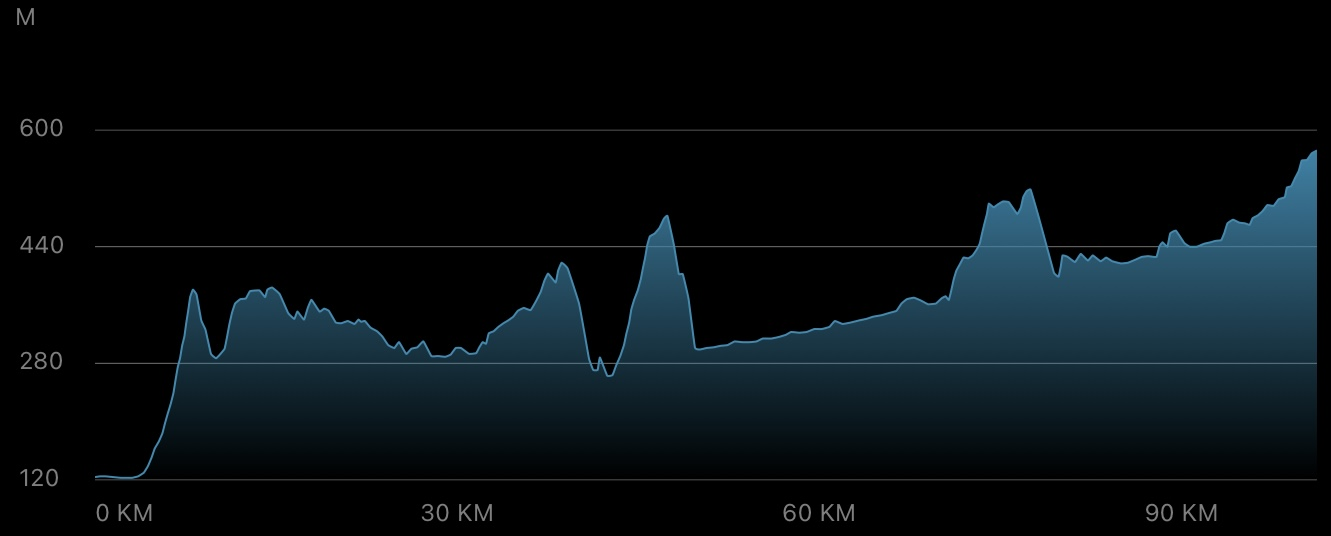
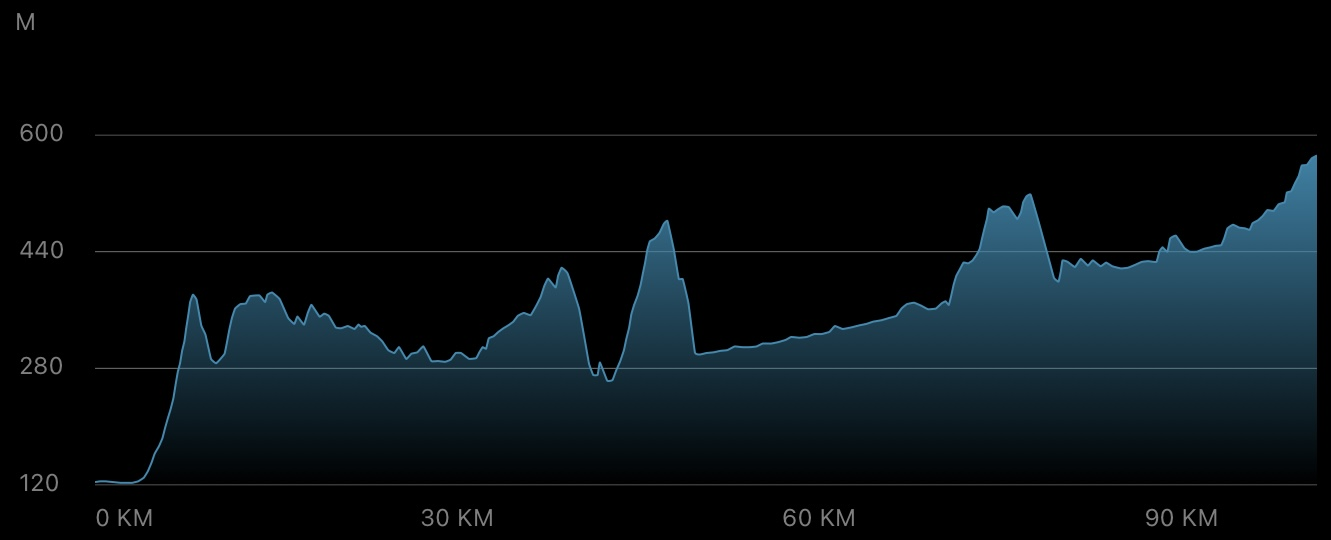
Updated elevation and slope profiles, added RT25 leg 13

diff --git a/RT25/RT25-13.html b/RT25/RT25-13.html
@@ -6,10 +6,10 @@
     <meta charset="utf-8">
     <meta http-equiv="X-UA-Compatible" content="IE=edge,chrome=1">
     <meta name="viewport" content="width=device-width, initial-scale=1">
-    <meta name="description" content="2025 Cycling Tour - Leg 12 Post">
+    <meta name="description" content="2025 Cycling Tour - Leg 13 Post">
     <meta name="author" content="Tim Ortkamp">
 
-    <title>Tim Ortkamp — 2025 Cycling Tour — Leg 12</title>
+    <title>Tim Ortkamp — 2025 Cycling Tour — Leg 13</title>
     
     <!-- Favicons -->
     <link rel="icon" type="image/x-icon" href="../favicon/favicon.ico">
@@ -84,14 +84,14 @@
 
     <!-- Page Header -->
     <!-- Set your background image for this header on the line below. -->
-    <header class="intro-header" style="background-image: url('../img/RT25/RT25-12-2.jpg')">
+    <header class="intro-header" style="background-image: url('../img/RT25/RT25-13-5.jpg')">
         <div class="container">
             <div class="row">
                 <div class="col-lg-8 col-lg-offset-2 col-md-10 col-md-offset-1">
                     <div class="post-heading">
-                        <h1>Riding the (small) roller coaster</h1>
-                        <h2 class="subheading">2025 Cycling Tour — Leg 12: From Brussels to Liège</h2>
-                        <span class="meta">Posted by <a href="../index.html">Tim Ortkamp</a> on August 24, 2025</span>
+                        <h1>In the footsteps of the great Eddy Merckx</h1>
+                        <h2 class="subheading">2025 Cycling Tour — Leg 13: From Liège to St. Vith</h2>
+                        <span class="meta">Posted by <a href="../index.html">Tim Ortkamp</a> on August 25, 2025</span>
                     </div>
                 </div>
             </div>
@@ -110,31 +110,31 @@
                         <table style="border-collapse: collapse;">
                             <tr>
                                 <td style="padding: 10px; border-right: solid 1px #000"><b>Distance<b></td>
-                                <td style="padding: 10px;">99.6 km</td>
+                                <td style="padding: 10px;">99.15 km</td>
                             </tr>
                             <tr>
                                 <td style="padding: 10px; border-right: solid 1px #000"><b>Time<b></td>
-                                <td style="padding: 10px;">4:59:08 h</td>
+                                <td style="padding: 10px;">6:40:40 h</td>
                             </tr>
                             <tr>
                                 <td style="padding: 10px; border-right: solid 1px #000"><b>Avg. Speed<b></td>
-                                <td style="padding: 10px;">20.0 km/h</td>
+                                <td style="padding: 10px;">14.8 km/h</td>
                             </tr>
                             <tr>
                                 <td style="padding: 10px; border-right: solid 1px #000"><b>Max. Speed<b></td>
-                                <td style="padding: 10px;">36.9 km/h</td>
+                                <td style="padding: 10px;">40.8 km/h</td>
                             </tr>
                             <tr>
                                 <td style="padding: 10px; border-right: solid 1px #000"><b>Avg. Heart Rate<b></td>
-                                <td style="padding: 10px;">132 bpm</td>
+                                <td style="padding: 10px;">134 bpm</td>
                             </tr>
                             <tr>
                                 <td style="padding: 10px; border-right: solid 1px #000"><b>Uphill<b></td>
-                                <td style="padding: 10px;">650 m</td>
+                                <td style="padding: 10px;">1695 m</td>
                             </tr>
                             <tr>
                                 <td style="padding: 10px; border-right: solid 1px #000"><b>Downhill<b></td>
-                                <td style="padding: 10px;">561 m</td>
+                                <td style="padding: 10px;">1242 m</td>
                             </tr>
                             <tr>
                                 <td style="padding: 10px; border-right: solid 1px #000"><b>Avg. Temperature**<b></td>
@@ -145,11 +145,11 @@
                     
                     <div style="content: ''; clear=both; display: table;">
                         <div style="float: left; padding: 5px;">
-                            <img src="../img/RT25/RT25-12-Elevation.jpg" alt="Elevation profile" style="width:100%">
+                            <img src="../img/RT25/RT25-13-Elevation.jpg" alt="Elevation profile" style="width:100%">
                             <span class="caption text-muted">Elevation profile [m]</span>
 			  </div>
 			  <div style="float: left; padding: 5px;">
-			      <img src="../img/RT25/RT25-12-Slope.jpg" alt="Slope profile" style="width:100%">
+			      <img src="../img/RT25/RT25-13-Slope.jpg" alt="Slope profile" style="width:100%">
 			      <span class="caption text-muted">Slope profile [%]</span>
 			  </div>
 		     </div> 
@@ -160,42 +160,41 @@
                     <h2 class="section-heading" style="margin-top: 40px;">Daybook</h2>
 
                     <p class='expandable'>
-                    After the demoralizing ride from Ghent to Brussels, today's leg of the journey should take me about 100 km further to Liège. This route, with an elevation gain of more than 600 meters from many smaller ascents and descents, was planned to be a preparatory ride on the upcoming two-leg way back through the Eifel. Even more importantly: after yesterday, the general mood should turn positive again!<br><br>Feeling a little more rested — though still not back to 100% — I swung myself onto the bike at around 11 am after visiting the center of Brussels (see my last post). Today, the weather conditions were outstanding, with blue skies and sunshine at around 20°C. The first part of the route took me through Brussels, past construction sites and awkward traffic junctions, and across a number of suburbs (Sterrebeek, Moorsel, Leefdal, Bertem, etc.) all the way to Leuven. You could say it was a variety-packed ride, given the changing terrain conditions, but I would have preferred the smooth asphalt that morning ;-) Nevertheless, I reached Leuven with an average speed of 19 km/h and my legs feeling good, so I'm not about to complain :-) On the outskirts of Leuven, near the Abdij van Park (see first impression), I met another cyclist who told me that a professional bike race would be passing through Leuven that afternoon. Well, unlike the Benelux Tour, I would probably miss the finish line this time ...<br>After passing Boutersem and Tienen, I finally approached the approximately 40 km long series of ascents and descents along the N3. On the one hand, this two-hour section should have been easy to ride, as there were no turns, a distinct bike path was marked, and there weren't many other cyclists on the road. On the other hand, the road was mostly unprepared and bumpy, and the continuous alternation between 200 meters of climbing followed by 100 meters of flat or descending terrain was physically and mentally challenging, which is why I compare this section with a (small) roller coaster. Still, I probably underestimated the long straight ride, because along the route there were relatively few places to stop, such as supermarkets or shady spots along the edge of the bike path. Instead, the surroundings seemed rather “parched,” with restaurants/pubs by the roadside being mostly closed, and as soon as a store appeared to be open (or advertised 24/7 opening hours), it usually didn't look very appealing. Either way, the hunt for a decent supermarket got slightly out of hand, and I rode ... and rode ... and rode ... and rode all the way to Liège without taking a single break! Okay, the last few climbs hurt a little at the end, but every bike tour needs those torturous moments :-) For my personal record book: the longest distance I have ever cycled without a break (i.e., getting off the bike to eat snacks and drink fluids) is now 99.6 km! Many thanks, glucose, without you I might not have reached that success :-)<br><br>After almost five hours, I arrived at my accommodation in good condition. There shouldn't be any bedbugs here, so I'm going to say good night and get some well-deserved sleep ;-)
+                    After a restful night in Liège, I carried on my tour in the morning. Initially, I had planned to stay at a campsite in Deidenberg, but following my recent experiences with intimate closeness to small animals, I opted for a comfortable room in St. Vith instead. Either way, the riding conditions are pretty much the same: a challenging medium to long distance track with a lot of uphill climbing — we're getting closer to the Eifel again ...<br><br>Blue skies, only scattered clouds, and sunshine with ongoing moderate temperatures around 20°C provided an excellent setting for the now 13th leg. Everything started with a short climb between kilometer 3 to 7, followed by a changeover to the RAVeL bike path. The RAVeL is a cycling and hiking trail network in Wallonia, covering about 1500 km. Via Beyne-Heusay and Fléron, this path led to me Herve, with a gentle incline of 1% to 5%. In Herve, I left the RAVeL and continued on rather unpaved terrain. One of the “highlights” was the rocky path past Polleur and Nardaie de Polleur, which ran partly under the highway bridge. For the second time on this tour, I had to bow to the difficult ground and push my bike uphill for a few meters ...<br>Over hill and dale, I worked my way to about kilometer 45, where I (happily) returned to the RAVeL. Riding up a slight incline, I headed for my first break of the day and rested for a few minutes after about 50 km with snacks and drinks.<br>Then I continued on the RAVeL, first slightly uphill, then a long downhill stretch, until I arrived in Stavelot at around 65 kilometers. Via the cobbled streets in the center, I reached the next climb, the Stèle Eddy Merckx. This is a category 3 climb, which is about 2.3 kilometers long and leads over the Côte de Stockeu. With an average gradient of around 10% and maximum gradients of just over 20%, it is a difficult climb, and it is no coincidence that this part is included in the classic Liège-Bastogne-Liège cycle race. At the summit, there is a memorial stele to Eddy Merckx in recognition of his achievements in the region (he won the classic race five times), which I photographed as a “reward” (see Impressions).I would say that Eddy Merckx would be proud of me if he had seen me climb up there with 18 kg of luggage :-)<br>The route then descended slightly via Petit-Thier and rejoined the RAVeL, which took me through the Emmelserwald on the last long climb of the day. I “slipped” out onto the N675c and at around kilometer 86 I should have turned off at Rodt near St. Vith. However, Rodt doesn't have a supermarket, so I decided to roll downhill to St. Vith, even though that meant I would have to ride the 3 kilometers back uphill afterwards. My legs were tired at this point, but I had conquered the Côte de Stockeu, so I would manage this too. After 99 kilometers and almost 1700 meters of elevation gain, I reached the finish line!<br><br>Today's stage was generally suited to climbers, with some kilometer-long but mostly constant inclines that are definitely feasible, especially on the RAVeL. The downside is that some of the paths are difficult to ride on, you need to be very careful with your bike on cobblestones or gravel. I definitely earned my uphill points today, and the warm bed too :-)
                     </p>
 
 		    <h2 class="section-heading" style="margin-top: 40px; margin-bottom: 35px;">Impressions</h2>
 
                     <div style="content: ''; clear=both; display: table;">
                         <div style="float: left; padding: 5px;">
-                            <img src="../img/RT25/RT25-12-1.jpg" alt="Abdij van Park in Leuven" style="width:100%">
-                            <span class="caption text-muted">Abdij van Park in Leuven</span>
+                            <img src="../img/RT25/RT25-13-1.jpg" alt="Bridge near Herve" style="width:100%">
+                            <span class="caption text-muted">Beautifully decorated bridge near Herve</span>
 			  </div>
 			  <div style="float: left; padding: 5px;">
-			      <img src="../img/RT25/RT25-12-2.jpg" alt="Entering Limburg" style="width:100%">
-			      <span class="caption text-muted">Entering the province of Limburg near Sint-Truiden</span>
+			      <img src="../img/RT25/RT25-13-2.jpg" alt="Selfie on the RAVeL" style="width:100%">
+			      <span class="caption text-muted">Selfie on the RAVeL (Réseau Autonome de Voies Lentes) behind Verviers</span>
 			  </div>
 			  <div style="float: left; padding: 5px;">
-			      <img src="../img/RT25/RT25-12-3.jpg" alt="Liège" style="width:100%">
-			      <span class="caption text-muted">Reaching the city of Liège</span>
+			      <img src="../img/RT25/RT25-13-3.jpg" alt="RAVeL" style="width:100%">
+			      <span class="caption text-muted">Great cycling environment along the RAVeL</span>
 			  </div>
 			  <div style="float: left; padding: 5px;">
-			      <img src="../img/RT25/RT25-12-4.jpg" alt="St. Martin's Basilica in Liège" style="width:100%">
-			      <span class="caption text-muted">St. Martin's Basilica in Liège</span>
+			      <img src="../img/RT25/RT25-13-4.jpg" alt="Amblève" style="width:100%">
+			      <span class="caption text-muted">View of the Amblève (Amel) through Stavelot</span>
 			  </div>
 			  <div style="float: left; padding: 5px;">
-			      <img src="../img/RT25/RT25-12-5.jpg" alt="Window view of the houses in Liège" style="width:100%">
-			      <span class="caption text-muted">Window view of the houses in Liège</span>
+			      <img src="../img/RT25/RT25-13-5.jpg" alt="Eddy Merckx monument" style="width:100%">
+			      <span class="caption text-muted">Eddy Merckx monument at the Côte de Stockeu near Stavelot</span>
+			  </div>
+			  <div style="float: left; padding: 5px;">
+			      <img src="../img/RT25/RT25-13-6.jpg" alt="St. Vith" style="width:100%">
+			      <span class="caption text-muted">Arrival in St. Vith</span>
 			  </div>
 		     </div>
 
 		 <ul class="pager" style="display: inline-block; float: left;">
                     <li class="next">
-                        <a href="RT25-11.html">&laquo; Previous</a>
-                    </li>
-                </ul>
-                <ul class="pager" style="display: inline-block; float: right;">
-                    <li class="next">
-                        <a href="RT25-13.html">Next &raquo;</a>
+                        <a href="RT25-12.html">&laquo; Previous</a>
                     </li>
                 </ul>
 

diff --git a/blog/blog-head.html b/blog/blog-head.html
@@ -104,6 +104,18 @@
             <div class="col-lg-8 col-lg-offset-2 col-md-10 col-md-offset-1">
 
 		<div class="post-preview">
+                    <a href="../RT25/RT25-13.html">
+                        <h2 class="post-title" style="margin-top: 0px;">
+                            In the footsteps of the great Eddy Merckx
+                        </h2>
+                        <h3 class="post-subtitle">
+                            2025 Cycling Tour – Leg 13: From Liège to St. Vith
+                        </h3>
+                    </a>
+                    <p class="post-meta">Posted by <a href="../index.html">Tim Ortkamp</a> on August 25, 2025</p>
+                </div>
+                
+		<div class="post-preview">
                     <a href="../RT25/RT25-12.html">
                         <h2 class="post-title" style="margin-top: 0px;">
                             Riding the (small) roller coaster
